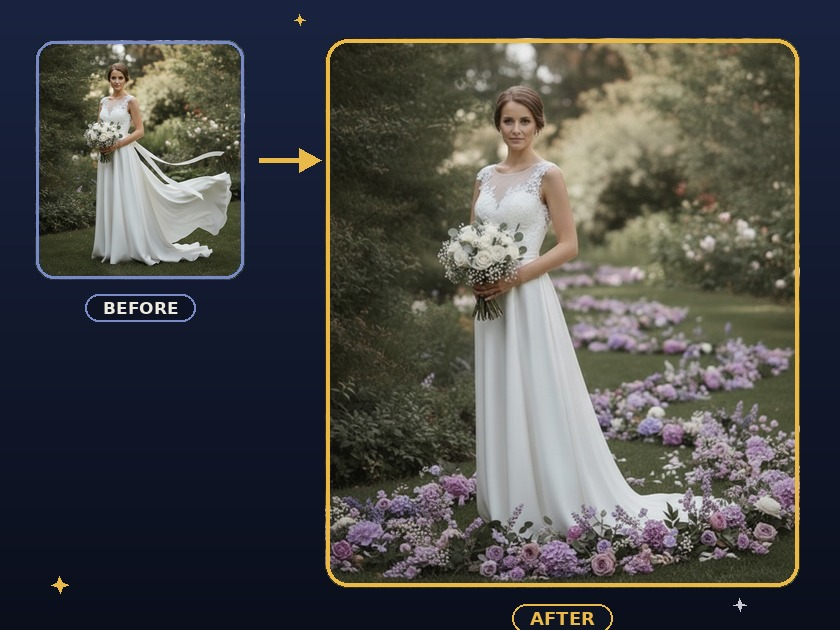
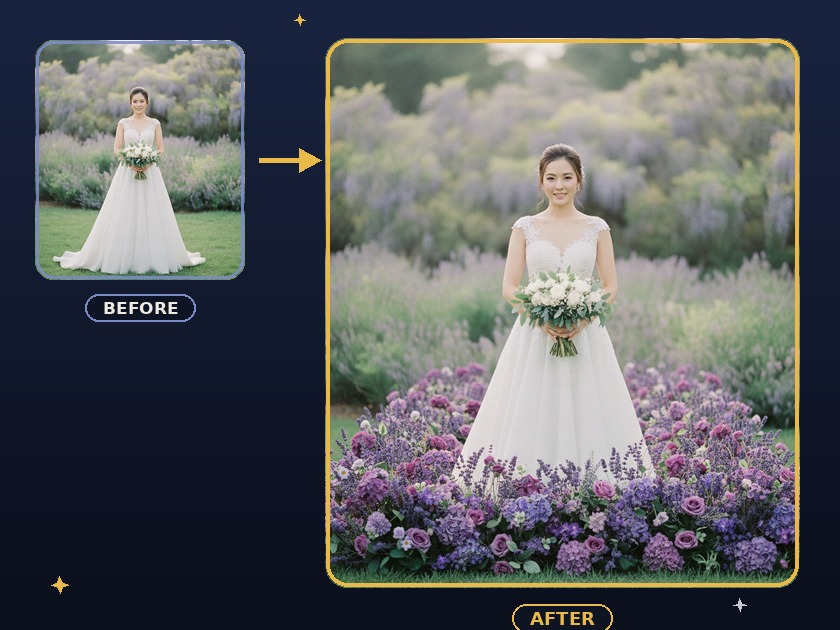
v4.20.26: re-polish model beauty on 9 concept-fixed cards + redo pl-6
User feedback: the concept-accuracy fixes shipped in v4.20.25 corrected
the right bugs but the models/styling weren't polished enough. Re-
generated wed-trail x7 and pl-3/pl-7 with more beautiful, editorial-
quality Vietnamese-style models while keeping each concept fix intact
(flower trail, bright glam makeup, visible-face cyberpunk styling).

pl-6 (Product Clean) rebuilt entirely: was a lone product shot with no
person, now shows a beautiful model presenting the product in a clean
commercial-studio setting, per explicit feedback that a person-less
shot was wrong for this app.

diff --git a/docs/app/index.html b/docs/app/index.html
@@ -206,7 +206,11 @@ textarea.wiz-prompt{min-height:220px}
 .wizpair img{flex:1;min-width:0;aspect-ratio:4/5;object-fit:cover;object-position:center 12%;border-radius:12px;border:1px solid var(--line)}
 .wizpair .arw{position:static;transform:none;flex:none}
 .wizrow{display:flex;gap:8px;flex-wrap:wrap;margin-top:12px}
-.wizrow .inp{flex:1 1 30%;min-width:30%}
+/* matches #genOpts select.inp (Freeform's working Generate row) — 30%
+   packed 3-per-row here at phone widths and clipped its own selected-option
+   text ("Provider: Gemini" rendered as "Provider: ("); 132px naturally
+   wraps to 2-per-row instead, same as Freeform, with room for the text */
+.wizrow .inp{flex:1 1 132px;min-width:132px}
 
 /* compact workflow mini-cards */
 .wfgrid{display:grid;grid-template-columns:1fr 1fr;gap:8px;margin-top:6px}
@@ -1017,6 +1021,19 @@ function applyLang(){
     }
     clearTimeout(state._pt); saveState();
     try{ localStorage.setItem("hnk_ws_lang", sel.value); }catch(e){}
+    /* This reload re-runs the whole init path, including the "returning
+       visitor -> compact hero" check below (keyed on hnk_ws_seen, which was
+       already set right after first paint). Without this flag that check
+       can't tell "reload because the user just switched language" apart
+       from "a genuine new visit", and would wrongly collapse the hero
+       (hiding .lede/.statline) even for someone on their very first visit.
+       Stash the hero's state from right before this reload so the init
+       path can restore it exactly, instead of re-deriving it from
+       hnk_ws_seen. */
+    try{
+      var heroWasMini = document.querySelector(".hero-strip").className.indexOf("hero-mini")>=0;
+      sessionStorage.setItem("hnk_ws_langswitch", heroWasMini?"1":"0");
+    }catch(e){}
     location.reload();
   };
   /* new multilingual statics */
@@ -1678,7 +1695,7 @@ async function rhGenerateUpscaleTransparent(apiKey, apiPath, refDataUrls, sizeSe
    uses, just without the Gallery persistence step). */
 var RH_VIDEO_TIMEOUT_MS = 600000; /* video renders run far longer than images */
 var RH_VIDEO_MODELS = [
-  { id:"rh-video-g-off", label:"RH Video G (Official)", apiPath:"rhart-video-g-official/image-to-video",
+  { id:"rh-video-g-off", label:"RH Video G", apiPath:"rhart-video-g-official/image-to-video",
     imageParam:"imageUrl", minImages:1, maxImages:1, oddOnly:false,
     resolutions:["720p","480p"], durations:["6","10"], aspect:false, promptMax:800 },
   { id:"gemini-omni-video", label:"Gemini Omni Flash (Video)", apiPath:"gemini-omni-flash/image-to-video",
@@ -3972,7 +3989,7 @@ if ("serviceWorker" in navigator) {
 }
 
 /* version check: tell cached users when a new build ships */
-var APP_VER="4.20.25";
+var APP_VER="4.20.26";
 (function(){
   var vv="v"+APP_VER;
   var nv=document.getElementById("navVer"); if(nv) nv.textContent=vv;
@@ -4060,7 +4077,18 @@ updateKeyBanner();
 /* first-run onboarding + compact hero on revisit */
 try {
   if (!localStorage.getItem("hnk_ws_onboarded")) $("onb").className="onb on";
-  if (localStorage.getItem("hnk_ws_seen")) document.querySelector(".hero-strip").className="hero-strip hero-mini";
+  /* A reload triggered by the language switcher (see #selLang's onchange)
+     is not a "returning visitor" event — restore whatever hero state was
+     showing right before that reload instead of consulting hnk_ws_seen,
+     otherwise a first-time visitor who merely changes language gets the
+     hero (and .lede/.statline) wrongly collapsed. */
+  var _langSwitchMini = sessionStorage.getItem("hnk_ws_langswitch");
+  sessionStorage.removeItem("hnk_ws_langswitch");
+  if (_langSwitchMini!==null) {
+    if (_langSwitchMini==="1") document.querySelector(".hero-strip").className="hero-strip hero-mini";
+  } else if (localStorage.getItem("hnk_ws_seen")) {
+    document.querySelector(".hero-strip").className="hero-strip hero-mini";
+  }
   localStorage.setItem("hnk_ws_seen","1");
 } catch(e){}
 function onbClose(){ $("onb").className="onb"; try{ localStorage.setItem("hnk_ws_onboarded","1"); }catch(e){} }

diff --git a/docs/app/sw.js b/docs/app/sw.js
@@ -1,6 +1,6 @@
 /* HNK Web Studio service worker — cache-first for library assets,
    network-first for everything else (so app updates arrive immediately). */
-var CACHE = "hnk-web-studio-v4-20-25";
+var CACHE = "hnk-web-studio-v4-20-26";
 var OFFLINE_URL = "./index.html";
 
 self.addEventListener("install", function (e) {
